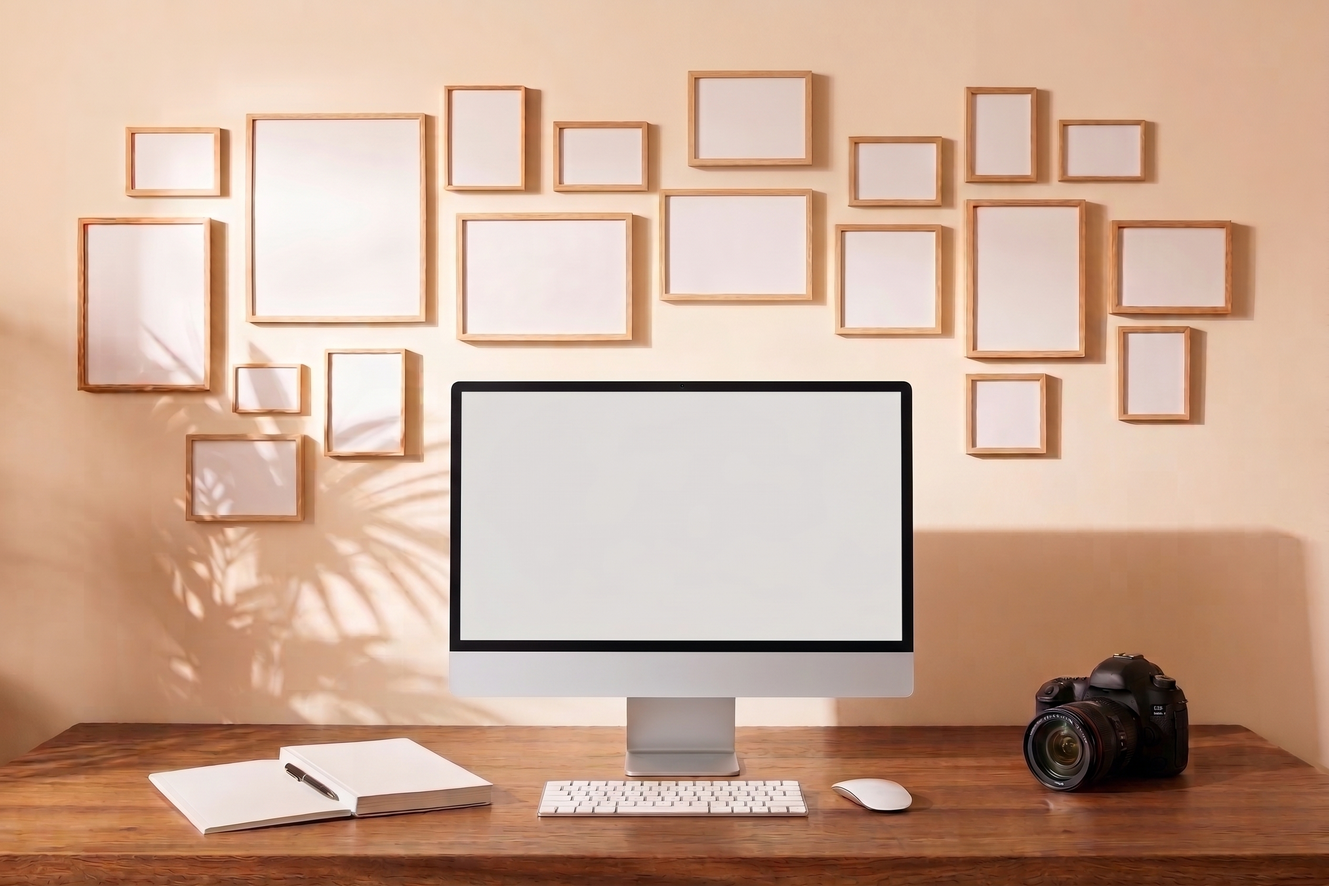
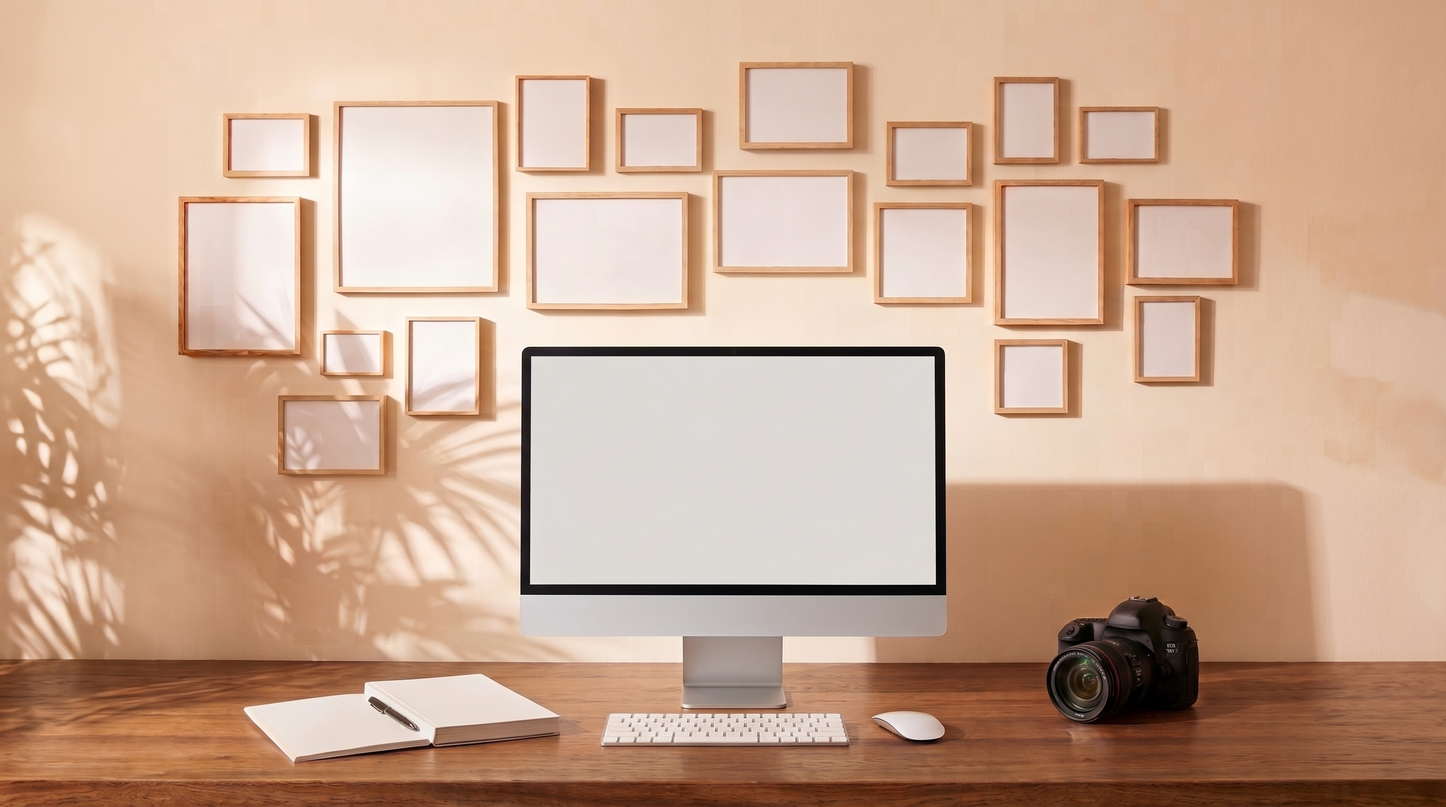
Use the 16:9 desk still with centered side-crop and zoom out on close.
Swap in the new workstation photo, flush the screen hotspot to the 16:9 bezel, fill the viewport by cropping left/right, and replace the soft aspect morph with a matching zoom-in / zoom-out.

diff --git a/src/App.tsx b/src/App.tsx
@@ -10,6 +10,16 @@ type DeskMode = 'room' | 'zooming' | 'desktop'
 
 type MorphRect = { top: number; left: number; width: number; height: number }
 
+/** Cover the viewport with a rect that keeps the source aspect ratio. */
+function coverRect(aspect: number, vw: number, vh: number): MorphRect {
+  if (vw / vh > aspect) {
+    const height = vw / aspect
+    return { top: (vh - height) / 2, left: 0, width: vw, height }
+  }
+  const width = vh * aspect
+  return { top: 0, left: (vw - width) / 2, width, height: vh }
+}
+
 function App() {
   const [view, setView] = useState<View>('home')
   const [deskMode, setDeskMode] = useState<DeskMode>('room')
@@ -18,6 +28,7 @@ function App() {
   const morphRef = useRef<HTMLDivElement>(null)
   const morphImgRef = useRef<HTMLImageElement>(null)
   const timelineRef = useRef<gsap.core.Timeline | null>(null)
+  const screenRectRef = useRef<MorphRect | null>(null)
 
   const enterMisc = useCallback((previewEl: HTMLElement) => {
     const veil = veilRef.current
@@ -76,8 +87,12 @@ function App() {
     }
 
     timelineRef.current?.kill()
+    screenRectRef.current = screenRect
     setDeskMode('zooming')
     setBrowserVisible(false)
+
+    const aspect = screenRect.width / screenRect.height
+    const end = coverRect(aspect, window.innerWidth, window.innerHeight)
 
     gsap.set(morph, {
       display: 'block',
@@ -86,66 +101,72 @@ function App() {
       left: screenRect.left,
       width: screenRect.width,
       height: screenRect.height,
-      borderRadius: 0,
     })
-    // Keep the still's aspect: cover the morph box (never stretch).
-    gsap.set(morphImg, {
-      opacity: 1,
-      width: '100%',
-      height: '100%',
-      objectFit: 'cover',
-      objectPosition: 'top center',
-    })
+    gsap.set(morphImg, { opacity: 1 })
 
     const tl = gsap.timeline({
       onComplete: () => {
         setDeskMode('desktop')
-        gsap.set(morph, { display: 'none', opacity: 0 })
+        setBrowserVisible(true)
+        gsap.set(morph, { display: 'none' })
       },
     })
     timelineRef.current = tl
 
-    // Grow the clip rect to the viewport. Image uses cover so aspect stays intact.
-    tl.to(
-      morph,
-      {
-        top: 0,
-        left: 0,
-        width: window.innerWidth,
-        height: window.innerHeight,
-        duration: 1.15,
-        ease: 'power2.inOut',
-      },
-      0,
-    )
-
-    // Bring live browser under the morph mid-way, then dissolve the still.
-    tl.call(
-      () => {
-        setDeskMode('desktop')
-        setBrowserVisible(true)
-      },
-      [],
-      0.45,
-    )
-
-    tl.to(
-      morphImg,
-      {
-        opacity: 0,
-        duration: 0.55,
-        ease: 'power1.inOut',
-      },
-      0.65,
-    )
+    // Smooth zoom only — same aspect in and out, no soft aspect morph.
+    tl.to(morph, {
+      top: end.top,
+      left: end.left,
+      width: end.width,
+      height: end.height,
+      duration: 0.85,
+      ease: 'power2.inOut',
+    })
   }, [])
 
   const exitDesktop = useCallback(() => {
-    timelineRef.current?.kill()
     const morph = morphRef.current
-    if (morph) gsap.set(morph, { display: 'none', opacity: 0 })
+    const morphImg = morphImgRef.current
+    const screenRect = screenRectRef.current
+    if (!morph || !morphImg || !screenRect) {
+      setBrowserVisible(false)
+      setDeskMode('room')
+      return
+    }
+
+    timelineRef.current?.kill()
     setBrowserVisible(false)
-    setDeskMode('room')
+    setDeskMode('zooming')
+
+    const aspect = screenRect.width / screenRect.height
+    const start = coverRect(aspect, window.innerWidth, window.innerHeight)
+
+    gsap.set(morph, {
+      display: 'block',
+      opacity: 1,
+      top: start.top,
+      left: start.left,
+      width: start.width,
+      height: start.height,
+    })
+    gsap.set(morphImg, { opacity: 1 })
+
+    const tl = gsap.timeline({
+      onComplete: () => {
+        gsap.set(morph, { display: 'none', opacity: 0 })
+        setDeskMode('room')
+      },
+    })
+    timelineRef.current = tl
+
+    tl.to(morph, {
+      top: screenRect.top,
+      left: screenRect.left,
+      width: screenRect.width,
+      height: screenRect.height,
+      duration: 0.85,
+      ease: 'power2.inOut',
+    })
   }, [])
 
   useEffect(() => {
@@ -163,7 +184,11 @@ function App() {
           mode={deskMode}
           onOpenDesktop={openDesktop}
           onBackHome={() => {
-            exitDesktop()
+            timelineRef.current?.kill()
+            const morph = morphRef.current
+            if (morph) gsap.set(morph, { display: 'none', opacity: 0 })
+            setBrowserVisible(false)
+            setDeskMode('room')
             setView('home')
           }}
         />
@@ -179,7 +204,7 @@ function App() {
       >
         <img
           ref={morphImgRef}
-          src="/rooted-nyc-screenshot.png"
+          src="/browser-idle-screenshot.jpg"
           alt=""
           className="screen-morph-img"
         />

diff --git a/src/components/DeskScene.tsx b/src/components/DeskScene.tsx
@@ -1,10 +1,9 @@
 import { useLayoutEffect, useRef, useState } from 'react'
-import { SCREEN_RECT } from '../lib/config'
+import { DESK_IMAGE, SCREEN_RECT } from '../lib/config'
 import './DeskScene.css'
 
-/** Native desk photo dimensions */
-const IMG_W = 2528
-const IMG_H = 1686
+const IMG_W = DESK_IMAGE.width
+const IMG_H = DESK_IMAGE.height
 const IMG_ASPECT = IMG_W / IMG_H
 
 type ScreenRect = { top: number; left: number; width: number; height: number }
@@ -16,33 +15,25 @@ type DeskSceneProps = {
 }
 
 /**
- * Fill the viewport with the desk photo (no letterboxing).
- * 1) Scale to cover width; crop the bottom edge of the desk if needed.
- * 2) If that still leaves vertical gaps, scale to cover height (crop sides)
- *    and shift up as a last resort so any leftover overflow crops the top.
+ * Full-bleed desk: prefer filling height and cropping left/right, centered.
+ * If the frame is still short on width, fill width and center vertically.
  */
 function coverLayout(vw: number, vh: number) {
-  // Pass 1 — fill width, pin top, crop bottom.
-  let width = vw
-  let height = vw / IMG_ASPECT
+  // Pass 1 — fill height, center, crop left/right.
+  let height = vh
+  let width = height * IMG_ASPECT
   let top = 0
-  let left = 0
+  let left = (vw - width) / 2
 
-  if (height + 0.5 < vh) {
-    // Pass 2 — still not tall enough: fill height, crop sides.
-    height = vh
-    width = vh * IMG_ASPECT
-    left = (vw - width) / 2
-    top = 0
-
-    // Last resort — if anything still overshoots vertically, pin to the
-    // bottom edge so the overflow crops the top of the frame.
-    if (top + height > vh + 0.5) {
-      top = vh - height
-    }
+  if (width + 0.5 < vw) {
+    // Pass 2 — not wide enough: fill width, center vertically.
+    width = vw
+    height = width / IMG_ASPECT
+    left = 0
+    top = (vh - height) / 2
   }
 
-  // Tiny overscan avoids sub-pixel hairlines at the edges.
+  // Tiny overscan to hide sub-pixel gaps.
   const overscan = 1.002
   const cx = left + width / 2
   const cy = top + height / 2
@@ -50,11 +41,6 @@ function coverLayout(vw: number, vh: number) {
   height *= overscan
   left = cx - width / 2
   top = cy - height / 2
-
-  // Re-assert crop priority after overscan: prefer bottom crop (top <= 0),
-  // only allow top crop if the bottom is already flush.
-  if (top > 0) top = 0
-  if (top + height < vh) top = vh - height
 
   return { width, height, top, left }
 }
@@ -69,13 +55,15 @@ export function DeskScene({ mode, onOpenDesktop, onBackHome }: DeskSceneProps) {
     if (!scene) return
 
     const apply = () => {
-      const vw = window.innerWidth
-      const vh = window.innerHeight
-      const { width, height, top, left } = coverLayout(vw, vh)
+      const { width, height, top, left } = coverLayout(
+        window.innerWidth,
+        window.innerHeight,
+      )
       scene.style.width = `${width}px`
       scene.style.height = `${height}px`
       scene.style.top = `${top}px`
       scene.style.left = `${left}px`
+      scene.style.marginLeft = '0'
     }
 
     apply()

diff --git a/src/lib/config.ts b/src/lib/config.ts
@@ -1,14 +1,15 @@
-/** Percentage of the desk image occupied by the iMac screen content.
- *  Flushed to the inner edge of the black bezel (no gray gap). */
+/** Percentage of desk-final.jpg occupied by the iMac screen (16:9). */
 export const SCREEN_RECT = {
-  left: 0.34651898734177217,
-  top: 0.44187425860023727,
-  width: 0.33188291139240506,
-  height: 0.28113879003558717,
+  left: 0.36664244186046513,
+  top: 0.44140625,
+  width: 0.2805232558139535,
+  height: 0.283203125,
 } as const
 
-/** Native pixel size of the screen content area in desk-final.jpg */
-export const SCREEN_PIXELS = { width: 839, height: 474 } as const
+export const SCREEN_PIXELS = { width: 772, height: 435 } as const
+
+/** Native desk photo size */
+export const DESK_IMAGE = { width: 2752, height: 1536 } as const
 
 export type AppTab = {
   id: string

diff --git a/src/components/DeskScene.css b/src/components/DeskScene.css
@@ -18,11 +18,12 @@
 
 .desk-scene {
   position: absolute;
-  /* Temporary pre-JS size: fill width, crop bottom */
+  /* Pre-JS: fill height, crop left/right, centered */
   top: 0;
-  left: 0;
-  width: 100vw;
-  height: calc(100vw * 1686 / 2528);
+  left: 50%;
+  height: 100dvh;
+  width: calc(100dvh * 2752 / 1536);
+  margin-left: calc(100dvh * 2752 / 1536 / -2);
   will-change: width, height, top, left;
 }
 
@@ -40,7 +41,7 @@
   object-fit: cover;
   object-position: top center;
   pointer-events: none;
-  transition: opacity 0.2s ease;
+  transition: opacity 0.15s ease;
   border: 0;
   box-shadow: none;
   outline: none;

diff --git a/src/components/DesktopBrowser.tsx b/src/components/DesktopBrowser.tsx
@@ -18,8 +18,8 @@ export function DesktopBrowser({ active, onExit }: DesktopBrowserProps) {
     if (!shellRef.current) return
     gsap.to(shellRef.current, {
       opacity: active ? 1 : 0,
-      duration: active ? 0.45 : 0.3,
-      ease: 'power1.inOut',
+      duration: active ? 0.2 : 0.15,
+      ease: 'power1.out',
       pointerEvents: active ? 'auto' : 'none',
     })
   }, [active])

diff --git a/scripts/detect_and_compose.py b/scripts/detect_and_compose.py
@@ -97,17 +97,16 @@ def detect_screen(img: Image.Image) -> tuple[int, int, int, int]:
 def compose_browser_idle(
     out_path: Path,
     content_path: Path,
-    screen_w: int = 839,
-    screen_h: int = 474,
+    screen_w: int = 772,
+    screen_h: int = 435,
 ) -> None:
-    """Cover-fit the provided screenshot into the monitor rect — no gray frame, no extra chrome."""
+    """Cover-fit screenshot into the 16:9 monitor rect — no gray frame."""
     content = Image.open(content_path).convert("RGB")
     cw, ch = content.size
     scale = max(screen_w / cw, screen_h / ch)
     nw, nh = int(cw * scale + 0.5), int(ch * scale + 0.5)
     resized = content.resize((nw, nh), Image.Resampling.LANCZOS)
     left = (nw - screen_w) // 2
-    # Prefer keeping the top (browser tabs); crop bottom if needed.
     top = 0
     if top + screen_h > nh:
         top = nh - screen_h
